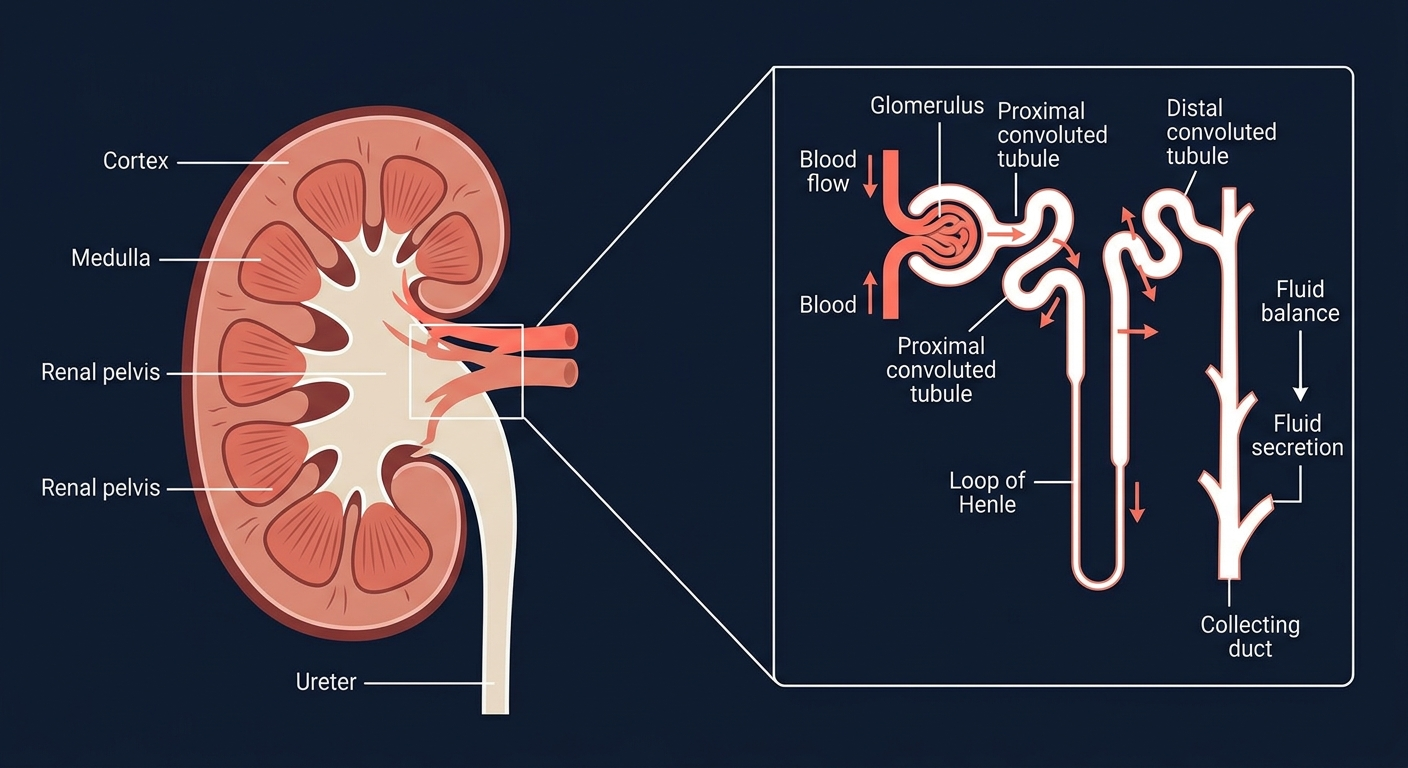
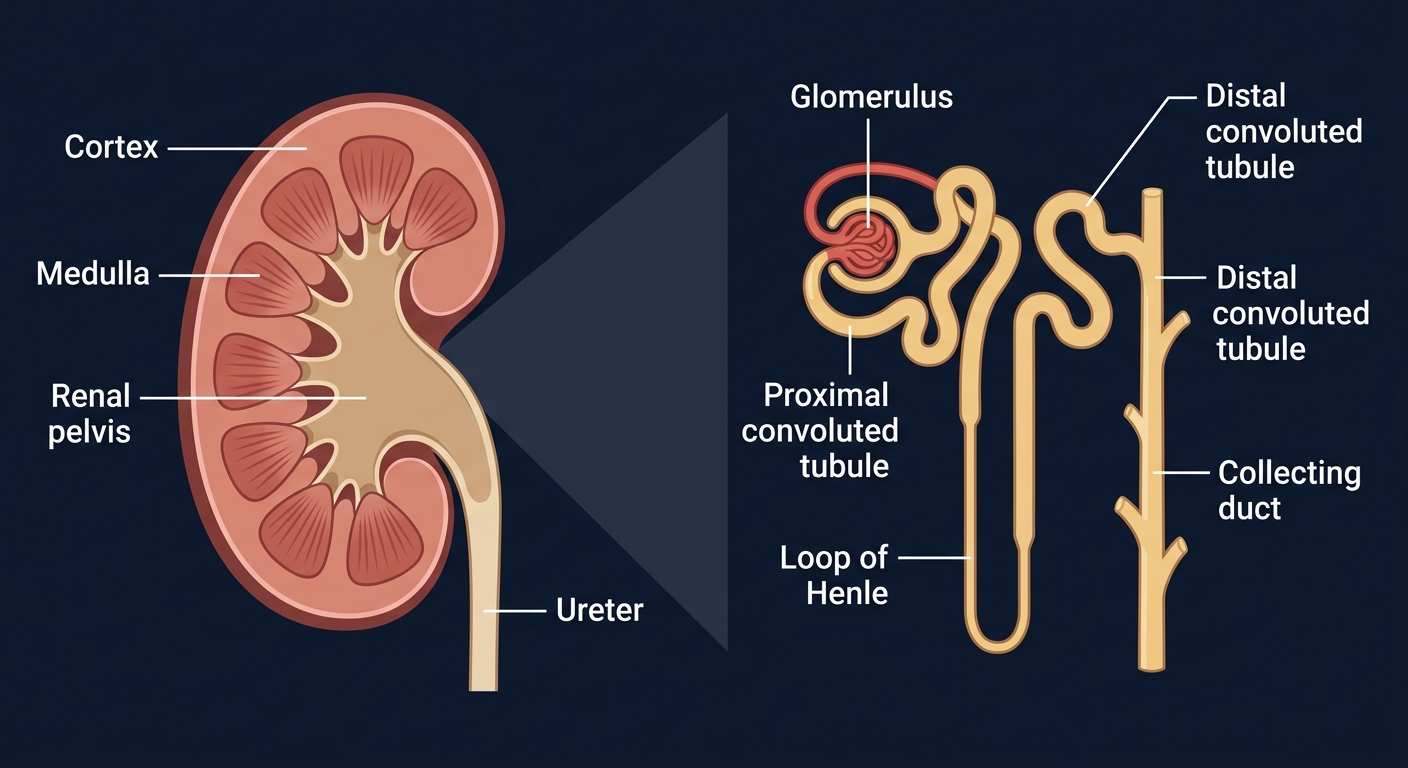
review: respiratory+neuro approved, renal v3 regenerated, embeds wired
Approved (reviewed):
- respiratory-system-diagram.webp → embeds wired to nclex-copd-asthma-deep-dive
  (double 'Main bronchi' is intentional: left + right main bronchus)
- neuro-system-diagram.webp → embeds wired to nclex-neurological-disorders
  (non-blocking: left half dead space — crop/rebalance future pass)

Renal v3 regenerated with stronger deduplication prompt:
- 'Renal pelvis' and 'Proximal convoluted tubule' must each appear
  exactly once across the entire image (kidney cross-section + nephron)
- Uploaded to R2, ETag will change on next review

Ledger: all 4 approved assets now have reviewer=Kimi (Owner),
reviewedAt=2026-08-16. CI gate: passes.

Changed region(s): [[0.0, 0.0625, 0.9688, 0.9375]]

diff --git a/content/nclex-neurological-disorders.html b/content/nclex-neurological-disorders.html
@@ -126,6 +126,18 @@ src="https://www.facebook.com/tr?id=1045171501242922&ev=PageView&noscript=1"
     <h1>NCLEX Neurological Disorders: Complete Study Guide</h1>
     <p class="subtitle">Stroke, seizures, multiple sclerosis, Parkinson's, increased ICP, and meningitis — pathophysiology, nursing priorities, and NCLEX traps.</p>
 
+    <!-- Obioma Original Illustration — Nervous System -->
+    <figure class="obioma-figure" id="fig-neuro">
+      <img src="/media/images/neuro-system-diagram.webp" 
+           alt="Diagram of the human nervous system showing brain lobes (frontal, parietal, temporal, occipital), brainstem (midbrain, pons, medulla), cerebellum, and spinal cord segments (cervical, thoracic, lumbar, sacral)"
+           loading="lazy" 
+           width="1200" 
+           height="675">
+      <figcaption>
+        <strong>Figure 1:</strong> The Nervous System — Brain lobes, brainstem, cerebellum, and spinal cord segments. 
+        <em>Obioma original illustration.</em>
+      </figcaption>
+    </figure>
 
     <h2>1. Stroke (Cerebrovascular Accident)</h2>
     <div class="condition-box">

diff --git a/public/content/nclex-neurological-disorders.html b/public/content/nclex-neurological-disorders.html
@@ -126,6 +126,18 @@ src="https://www.facebook.com/tr?id=1045171501242922&ev=PageView&noscript=1"
     <h1>NCLEX Neurological Disorders: Complete Study Guide</h1>
     <p class="subtitle">Stroke, seizures, multiple sclerosis, Parkinson's, increased ICP, and meningitis — pathophysiology, nursing priorities, and NCLEX traps.</p>
 
+    <!-- Obioma Original Illustration — Nervous System -->
+    <figure class="obioma-figure" id="fig-neuro">
+      <img src="/media/images/neuro-system-diagram.webp" 
+           alt="Diagram of the human nervous system showing brain lobes (frontal, parietal, temporal, occipital), brainstem (midbrain, pons, medulla), cerebellum, and spinal cord segments (cervical, thoracic, lumbar, sacral)"
+           loading="lazy" 
+           width="1200" 
+           height="675">
+      <figcaption>
+        <strong>Figure 1:</strong> The Nervous System — Brain lobes, brainstem, cerebellum, and spinal cord segments. 
+        <em>Obioma original illustration.</em>
+      </figcaption>
+    </figure>
 
     <h2>1. Stroke (Cerebrovascular Accident)</h2>
     <div class="condition-box">

diff --git a/assets/media/LICENSES.md b/assets/media/LICENSES.md
@@ -28,9 +28,9 @@ All media assets generated for Obioma Care. AI-generated medical diagrams requir
 | filename | generated | tool | prompt summary | license | reviewStatus | reviewer | reviewedAt | usage |
 |----------|-----------|------|----------------|---------|--------------|----------|------------|-------|
 | cardiovascular-system-diagram.webp | 2026-08-16 | gemini-3.1-flash-image-preview | Flat medical illustration of human cardiovascular system: heart with four labeled chambers (Right Atrium, Right Ventricle, Left Atrium, Left Ventricle — each labeled once only), major arteries in coral red (#FF6B5B) for oxygenated blood, major veins in blue (#0ea5e9) for deoxygenated blood, pulmonary artery in blue (deoxygenated to lungs), pulmonary veins in coral (oxygenated from lungs), aorta labeled "Aorta", superior vena cava labeled "Superior Vena Cava", dark navy (#0f172a) background, clean vector-like style, white leader line labels | ai-generated-obioma | reviewed | Kimi (Owner) | 2026-08-16 | nclex-cardiac-disorders |
-| respiratory-system-diagram.webp | 2026-08-16 | gemini-3.1-flash-image-preview | Flat medical illustration of human respiratory system: nasal cavity, pharynx, larynx, trachea, bronchi, bronchioles, alveoli, diaphragm, gas exchange arrows, dark navy background, clean labels. REJECTED v1: "Lannyx" misspelling, duplicate labels, "Main bronchis" error. v2 pending. | ai-generated-obioma | rejected | Kimi (Owner) | 2026-08-16 | — |
-| neuro-system-diagram.webp | 2026-08-16 | gemini-3.1-flash-image-preview | Flat medical illustration of human nervous system: brain lateral view with labeled lobes, brainstem, cerebellum, spinal cord segments. REJECTED v1: cranial nerve numbering garbled ("WII", missing III/VII, duplicate I). v2 pending: regenerate without cranial nerve inset or with fixed Roman numeral numbering I–XII. | ai-generated-obioma | rejected | Kimi (Owner) | 2026-08-16 | — |
-| renal-system-diagram.webp | 2026-08-16 | gemini-3.1-flash-image-preview | Flat medical illustration of human renal system: kidney cross-section, nephron inset. REJECTED v1: "Renal pelvis" and "Proximal convoluted tubule" each labeled twice. v2 pending: each label exactly once. | ai-generated-obioma | rejected | Kimi (Owner) | 2026-08-16 | — |
+| respiratory-system-diagram.webp | 2026-08-16 | gemini-3.1-flash-image-preview | Flat medical illustration of human respiratory system: nasal cavity, pharynx, larynx (correct spelling), trachea, main bronchi (left and right — correct spelling), bronchioles, alveoli, diaphragm, gas exchange arrows O2 coral in / CO2 blue out, dark navy background, clean labels. NOTE: double "Main bronchi" is intentional (left + right main bronchus). | ai-generated-obioma | reviewed | Kimi (Owner) | 2026-08-16 | nclex-copd-asthma-deep-dive |
+| neuro-system-diagram.webp | 2026-08-16 | gemini-3.1-flash-image-preview | Flat medical illustration of human nervous system: brain lateral view with labeled lobes (frontal, parietal, temporal, occipital), brainstem (midbrain, pons, medulla), cerebellum, spinal cord segments (cervical, thoracic, lumbar, sacral). No cranial nerve inset. Non-blocking: left half is dead space — crop/rebalance in future pass. | ai-generated-obioma | reviewed | Kimi (Owner) | 2026-08-16 | nclex-neurological-disorders |
+| renal-system-diagram.webp | 2026-08-16 | gemini-3.1-flash-image-preview | Flat medical illustration of human renal system: kidney cross-section (cortex, medulla, pelvis), magnified nephron inset with glomerulus, proximal convoluted tubule, loop of Henle, distal convoluted tubule, collecting duct. REJECTED v1+v2: "Renal pelvis" and "Proximal convoluted tubule" each labeled twice. v3 pending: each label EXACTLY ONCE — no duplicates anywhere. | ai-generated-obioma | rejected | Kimi (Owner) | 2026-08-16 | — |
 | gi-system-diagram.webp | 2026-08-16 | gemini-3.1-flash-image-preview | Flat medical illustration of human GI system: tract from mouth to anus, esophagus, stomach, small intestine segments, large intestine segments, liver, gallbladder, pancreas. NOTE: absorption icons arbitrarily placed ("Fat" on transverse colon is wrong). Follow-up: anchor icons to small intestine or remove next pass. | ai-generated-obioma | reviewed | Kimi (Owner) | 2026-08-16 | nclex-gi-disorders |
 
 ---
